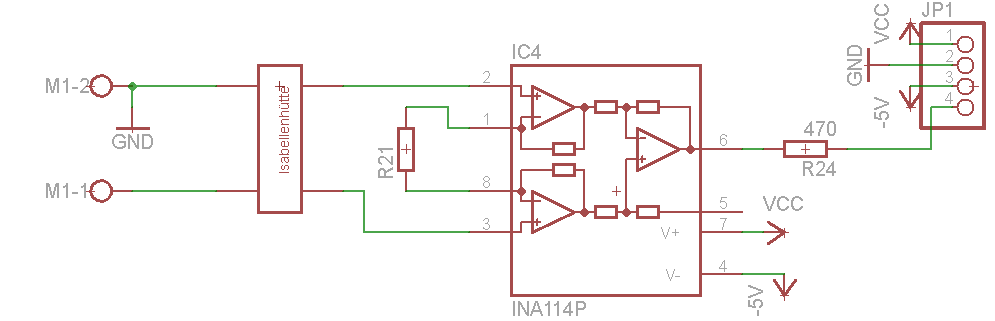
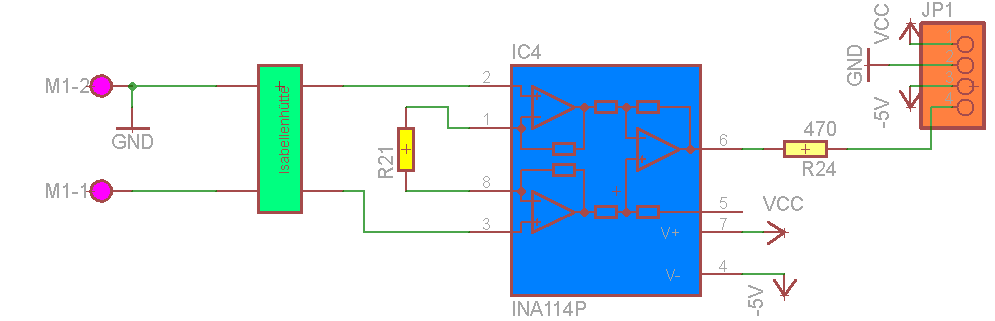
Freitag, bunte Bilder(!)

diff --git a/Master_Schmatz.tex b/Master_Schmatz.tex
@@ -238,7 +238,7 @@ Es gibt verschiedene Solarzellentechnologien. Es gibt kristalline Siliziumzellen
 Eine Siliziumsolarzelle ist eine großflächigen Diode. Die Sperrschicht ist dabei dem Sonnenlicht ausgesetzt. Gelangt ein Lichtquanten in die Sperrschicht kann aufgrund des inneren Photoeffektes ein Elektron/Loch Paar erzeugt werden. Durch das elektrische Feld in der Sperrschicht werden die Ladungsträger getrennt bevor sie kombinieren können. Elektronen bewegen aufgrund ihrer negativen Ladung entgegen der Feldrichtung in die n-Zone. Löcher wandern in Feldrichtung zur Raumladungsfreien p-Zone. Die Leerlaufspannung einer Solarzelle ist kleiner als die Diffusionsspannung, der Spannung über die Raumladungszone, die der Diffusion von Ladungsträgern entgegenwirkt.
 \begin{figure}[htbp]
 \centering
-\includegraphics[width=125mm]{img/zelle.png}
+\includegraphics[width=125mm]{img/zelle2.png}
 \caption{Der Schematischer Aufbau einer Siliziumsolarzelle. Quelle: \cite{pv}}\label{cell}
 \end{figure}
 
@@ -390,6 +390,11 @@ Der Roboter wird mit einem Lithium-Ionen-Akku versorgt. Die Spannung beträgt, a
 \caption{Der Schaltplan der Motortreiberplatine.}\label{hbridge2}
 \end{figure}
 
+\begin{figure}[htbp]
+\centering
+\includegraphics[width=125mm]{img/hdrive.png}
+\caption{Das Layout der Motortreiberplatine.}\label{hbridge2}
+\end{figure}
 
 \subsection{Optische Sensorik}\thispagestyle{empty}
 Die optische Sensorik dient der Positionsbestimmung. Der Roboter bewegt während der Messung auf Holzplatten, die aus Gründen, welche unten genauer erläutert werden, schwarz sind, der Roboter orientiert sich an einer aus geraden Teilstücken bestehenden weißen Linienfolge. 
@@ -438,16 +443,24 @@ Die 5 Volt Versorgung des Mikrocontrollers wurde mit einem RECOM R-785.0-1.0 DC-
 Der Ladezustand der einzelnen Zellen des Akkus wird mit einer eigens dafür entwickelten Schaltung überwacht. Sollte die Spannung einer Zelle unter 3,3V sinken, wird die Stromversorgung zum Roboter mittels FET unterbrochen, und ein akustisches Warnung ausgegeben. Damit wird eine Tiefentladung verhindert, was zu einer irreversiblen Schädigung und einem Kapazitätsverlust führen kann. Eigentlich könnte der Akku bis zu 2,7V pro Zelle entladen werden.
 Die Analog-Digitalwandlung des Arduino benötigt eine Referenzspannung, entweder die Versorgungsspannung, was jedoch zu ungenau ist. Als Spannungsreferenz wird daher ein LT1021 5V Präzisionsspannungsquelle verwendet. Da dieses Bauelement nachträglich hinzugefügt wurde, ist es auf einer eigenen kleinen Platine untergebracht.
 
+\begin{figure}[htbp]
+\centering
+\includegraphics[width=100mm]{img/refu.png}
+\caption{Die Schaltung der 5V Referenzspannung.}\label{refu}
+\end{figure}
+
+\begin{figure}[htbp]
+\centering
+\includegraphics[width=100mm]{img/refu2.png}
+\caption{Das Platinenlayout der 5V Referenzspannung.}\label{refu2}
+\end{figure}
+
  
 \subsection{Mikrokontroller}\thispagestyle{empty}
 Der Arduino Mega 2560 ist ein Mikrocontroller-Board. Es ist eine Open-Source Elektronikentwicklungsplattform und richtet sich an Elektronikneulinge wie auch an Profis. Den Mikrocontroller des Arduino-Boards bildet ein ATmega2560 der Firma Atmel. Dabei handelt es sich um einen 8-Bit-Mikrocontroller.  Er läuft mit 16 MHz Taktfrequenz und besitzt 256 KByte Flash, wovon 8 KByte für den bootloader verwendet werden, für den Programmcode, 8 KByte SRAM, sowie 4 KByte EEPROM.  Es verfügt über 54 digitale I/O Pins, davon können 15 als PWM-Ausgänge verwendet werden. Weiters gibt es 16 analoge Eingänge die über einen 10-Bit Analog-Digital-Wandler verfügen.
 Eine USB Schnittstelle ist zur Programmierung und Kommunikation vorhanden.
 Der Mikrocontroller arbeitet mit einer Versorgungsspannung von 5V. Grundsätzlich kann die Stromversorgung über die USB Schnittstelle erfolgen. Für einen beweglichen Roboter ist diese Option jedoch nicht praktikabel. Es besteht auch die Möglichkeit über eine Buchse eine Versorgungsspannung von 7 bis 12 Volt anzulegen, der Akku liefert aber eine höhere Spannung. So wird aus der Akku-Spannung mittels DC-DC Konverter
 eine stabile 5 Volt Spannung gewonnen. Diese 5 Volt werden direkt mit dem 5 Volt Pin des Arduino-Boards verbunden. Die 5-Volt Spannungsversorgung befindet sich auf dem Shield (der Aufsteckplatine). Dabei handelt es sich um einen kompakten DC-DC Konverter.
-
- 
-
-
 
 \begin{figure}[htbp]
 \centering
@@ -480,8 +493,11 @@ Die Zelle ist über ein 25cm langes Kabel mit dem Durchmesser von 4 mm$^2$, ein 
 
 
 \subsection{Das Shield}\thispagestyle{empty}
-Unter einem Shield versteht man eine Platine die auf einem Arduino aufgesteckt werden kann. Im Falle des Messroboters befindet sich die 5V-Erzeugung, die -5V-Erzeugung, die SD-Karte und diverse Buchsen zum Anschluss der Messplatinen und des Sensorarray auf der Shield-Platine. 
-Die SD-Karte benötigt eine 3.3V Versorgung, welcher der Arduino liefert. Dazu sind keine wieteren Bauteile nötig.
+Unter einem Shield versteht man eine Platine die auf einem Arduino aufgesteckt werden kann, und benutzerspezifische Funktionalität beinhaltet. Im Falle des Messroboters befindet sich die 5V-Erzeugung, die -5V-Erzeugung, die SD-Karte und diverse Buchsen zum Anschluss der Messplatinen und des Sensorarray auf der Shield-Platine. 
+Die SD-Karte benötigt eine 3.3V Versorgung, welcher der Arduino liefert. Dazu sind keine wieteren Bauteile nötig. 
+Zusätzlich gibt es einen Pegelwandler, welcher die 5V-Level der digitalen Signale des Arduino auf 3.3V-Level für den SD-Karten.
+In der Abbildung  \ref{shield} sind die verschieden Bauteile farbig markiert:
+Klemmen zur Versorgung mit Akku-Spannung (rosa), Buchse zur Kommunikation mit der Sensor-Array Platine (violett). Eine 10-poligeBuchse zur Verbindung mit der Motortreiberplatine (violett). Insgesamt vier vierpolige Stecker (rosa) für verschiedene Messplatinen, wovon nur drei in Gebrauch sind: für die Strommessung und die beiden Temperaturmessungen.
 
 \begin{figure}[htbp]
 \centering
